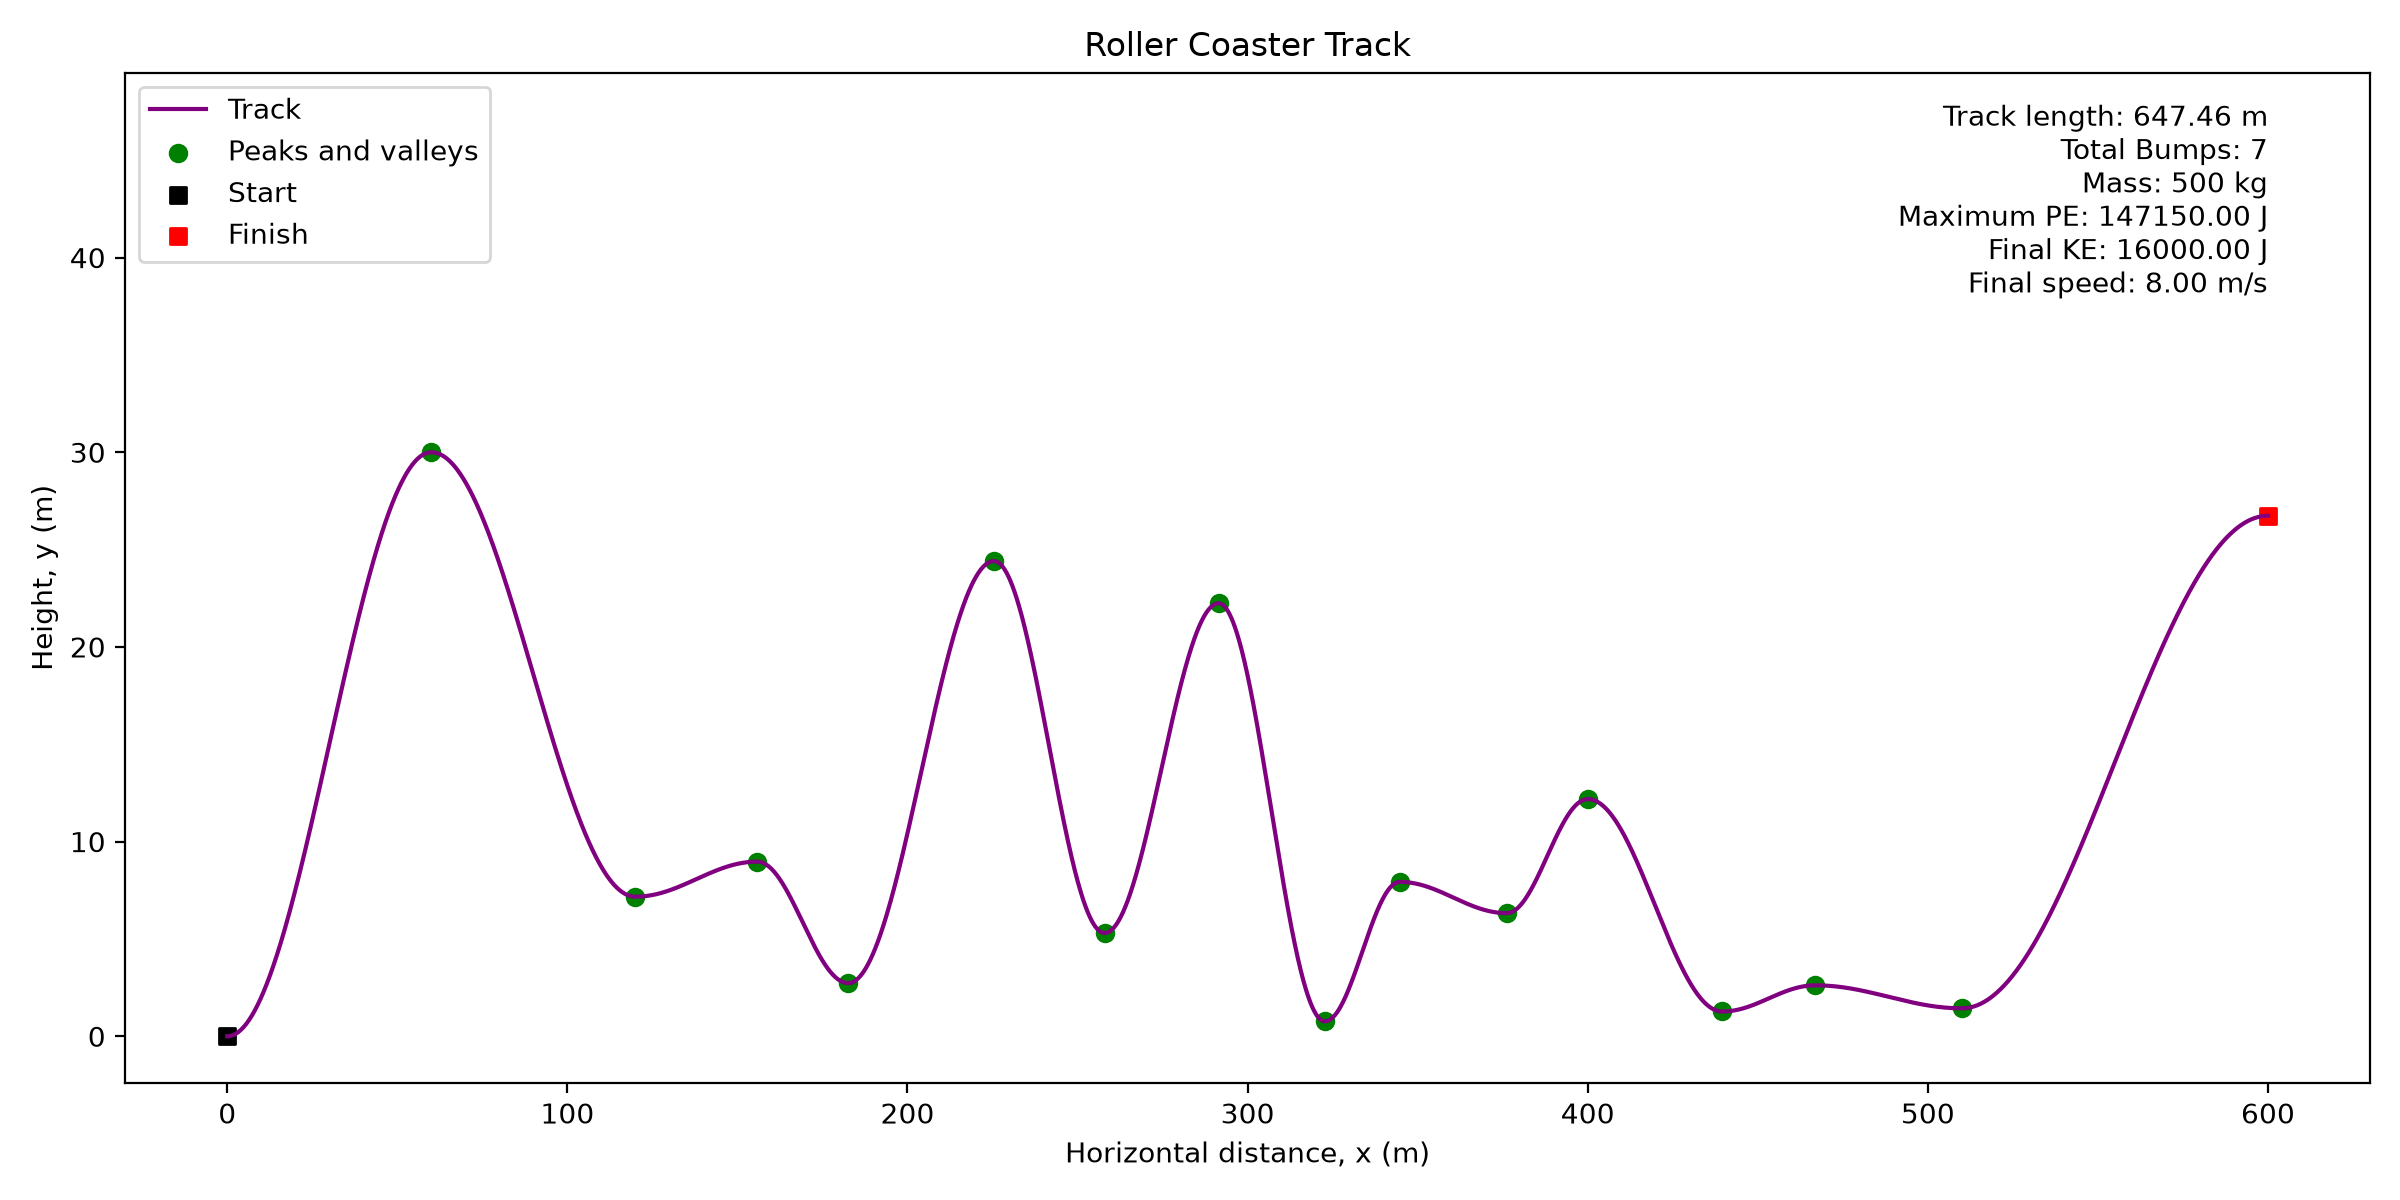
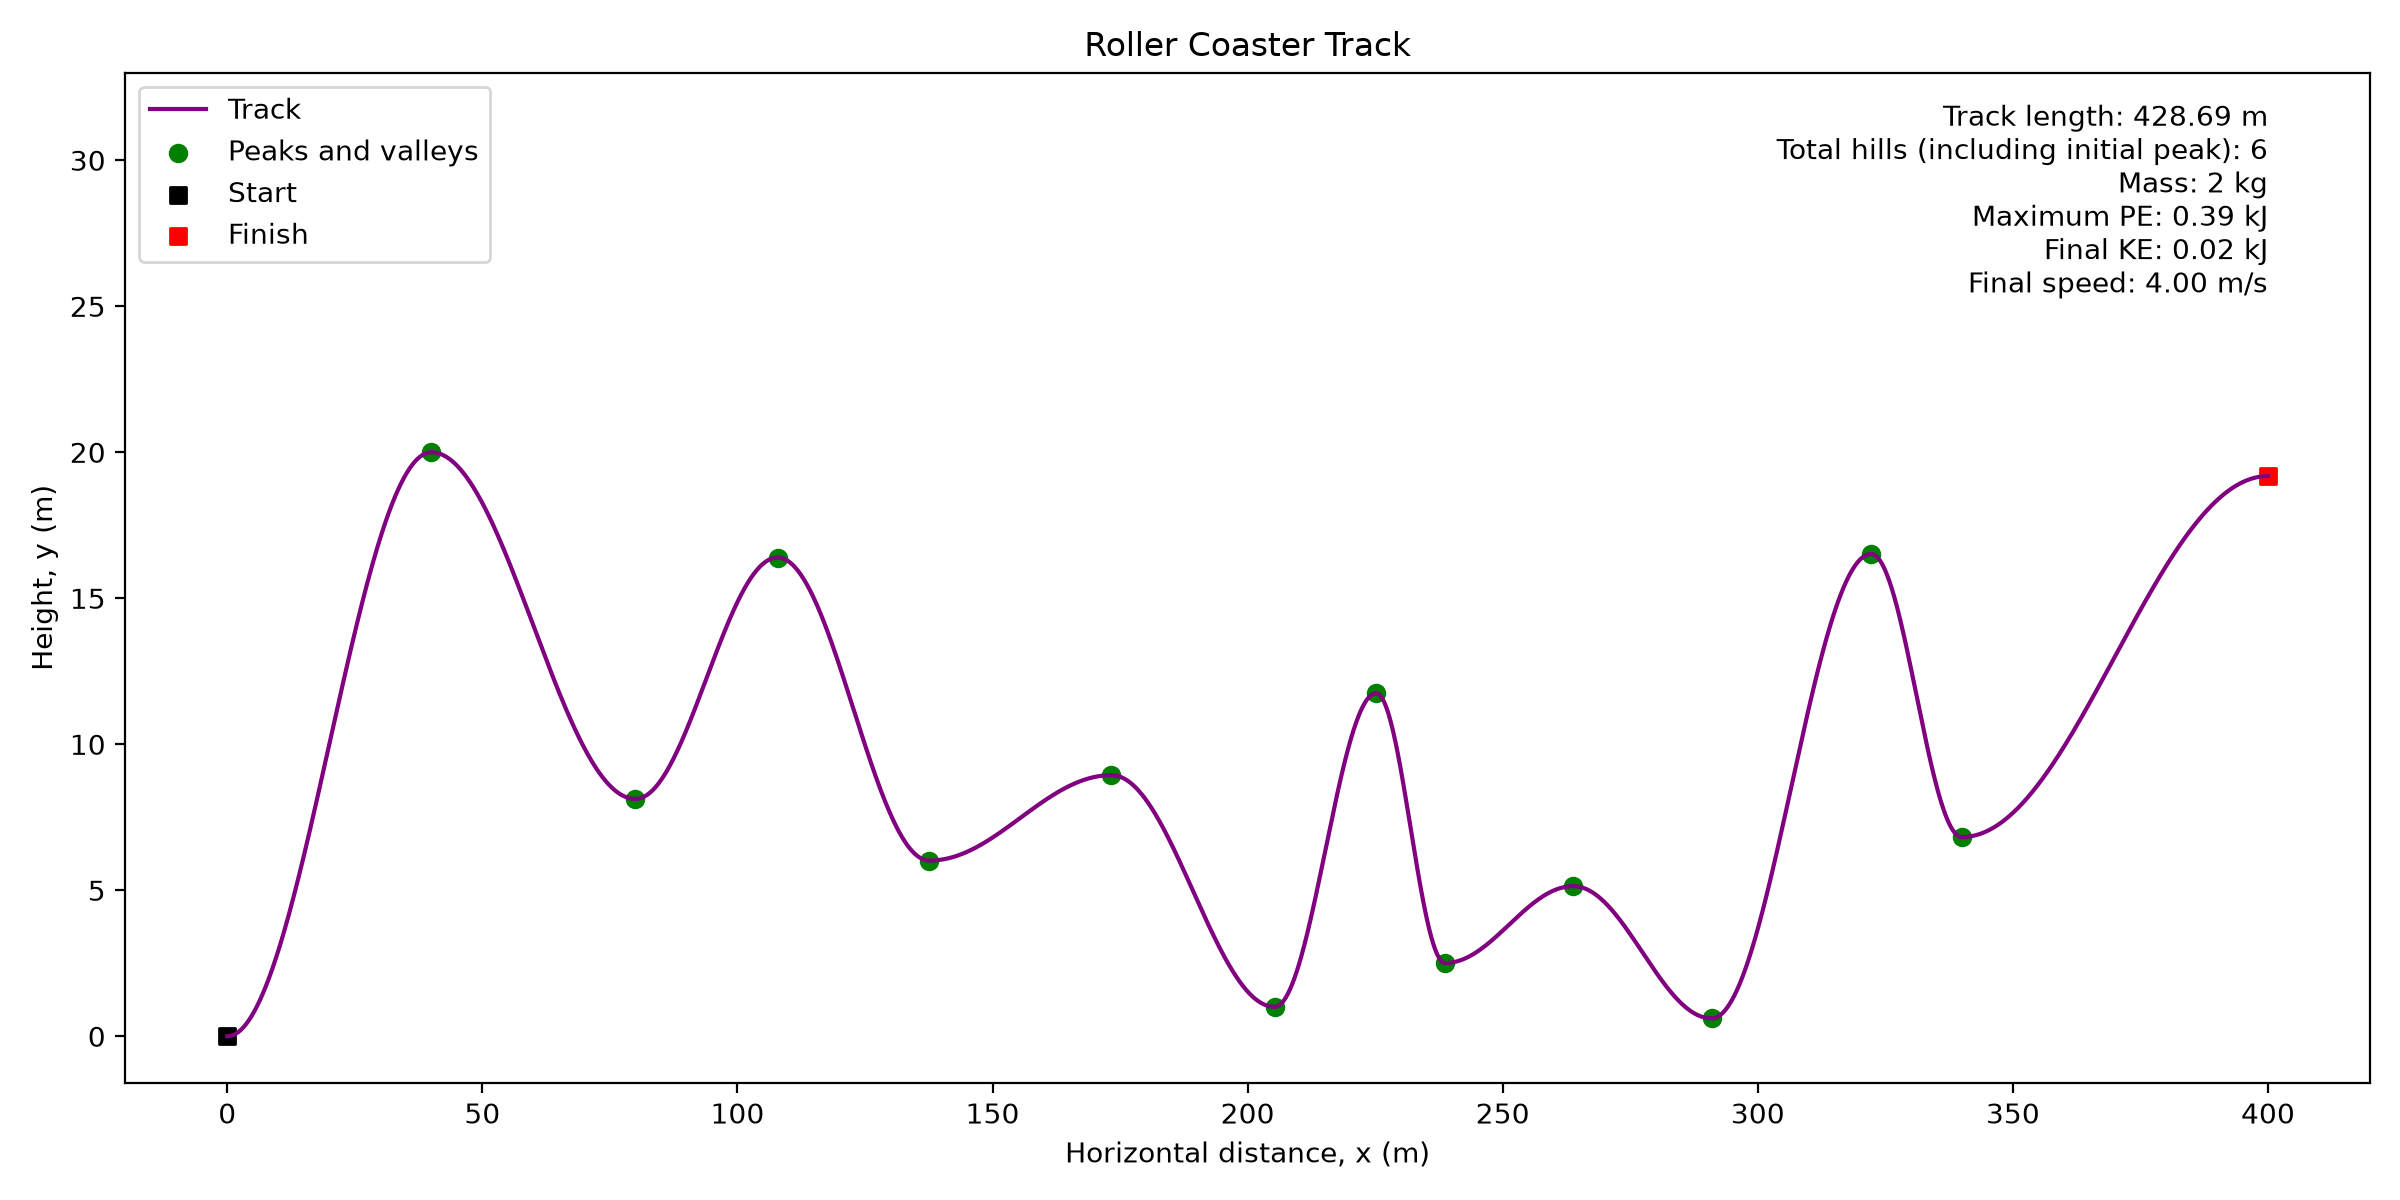
Add files via upload

diff --git a/final.py b/final.py
@@ -11,49 +11,72 @@ def section(x, x1, x2, y1, y2):
     return y1 + (y2 - y1)/2 * (1 - np.cos(np.pi * (x - x1)/(x2 - x1)))
 
 #inputs and track length check
+print("Welcome to the Rollercoaster generator!!")
 while True:
     try:
-        distance = float(input("Horizontal distance (m): "))
-        height = float(input("Initial peak height (m): "))
-        hills = int(input("Number of additional hills (at least 6): "))
-        mass = float(input("Mass (kg): "))
-        speed = float(input("Desired final speed (m/s, between 0 and 10): "))
+        distance = float(input("\nHorizontal start-to-finish distance (m; greater than 0; curved track must be 300-1200 m): "))
     except ValueError:
-        print("Enter numbers only, with a whole number for the hill count.")
+        print("Distance must be a finite number greater than 0. Restarting all inputs.")
+        continue
+    if not np.isfinite(distance) or distance <= 0 or distance >= 1200:
+        print("Distance must be a finite number greater than 0 and less than 1200. Restarting all inputs.")
         continue
 
-    if not np.all(np.isfinite([distance, height, mass, speed])):
-        print("Enter finite numbers.")
+    try:
+        height = float(input("Initial peak height above ground (m; greater than 0): "))
+    except ValueError:
+        print("Height must be a finite number greater than 0. Restarting all inputs.")
         continue
-    if distance <= 0 or height <= 0 or mass <= 0:
-        print("Distance, height, and mass must be positive.")
+    if not np.isfinite(height) or height <= 0:
+        print("Height must be a finite number greater than 0. Restarting all inputs.")
         continue
-    if hills < 6:
-        print("There must be at least six additional hills.")
+
+    try:
+        hills = int(input("Total hills, including the initial peak (whole number; at least 5): "))
+    except ValueError:
+        print("Total hills must be a whole number of at least 5. Restarting all inputs.")
         continue
-    if speed <= 0 or speed >= 10:
-        print("Final speed must be greater than 0 and less than 10 m/s.")
+    if hills < 5:
+        print("Total hills must be a whole number of at least 5. Restarting all inputs.")
+        continue
+
+    try:
+        mass = float(input("Car mass (kg; greater than 0): "))
+    except ValueError:
+        print("Mass must be a finite number greater than 0. Restarting all inputs.")
+        continue
+    if not np.isfinite(mass) or mass <= 0:
+        print("Mass must be a finite number greater than 0. Restarting all inputs.")
+        continue
+
+    try:
+        speed = float(input("Desired speed at the finish (m/s; greater than 0 and less than 10): "))
+    except ValueError:
+        print("Final speed must be a finite number greater than 0 and less than 10 m/s. Restarting all inputs.")
+        continue
+    if not np.isfinite(speed) or speed <= 0 or speed >= 10:
+        print("Final speed must be a finite number greater than 0 and less than 10 m/s. Restarting all inputs.")
         continue
 
     final_height = height - speed**2/(2*g)
     if final_height < 0:
-        print("Final height would be below ground. Increase height or decrease speed.")
+        print("Final height would be below ground. Increase height or decrease speed. Restarting all inputs.")
         continue
 
     #random widths for the hills between 20% and 85% of the distance
     widths = []
-    for n in range(2*hills):
+    for n in range(2*(hills - 1)):
         widths.append(np.random.uniform(0.5, 1.5))
     total_width = sum(widths)
 
     x_points = [0, 0.1 * distance, 0.2 * distance]
-    for n in range(2*hills):
+    for n in range(2*(hills - 1)):
         x_points.append(x_points[-1] + 0.65 * distance * widths[n]/total_width)
     x_points.append(distance)
 
     #random peak heights, all below the initial peak
     y_points = [0, height, 0]
-    for n in range(hills):
+    for n in range(hills - 1):
         hill_height = np.random.uniform(0, height)
         while hill_height <= 0 or hill_height >= height:
             hill_height = np.random.uniform(0, height)
@@ -119,7 +142,7 @@ final_ke = mass * g * (height - final_height)
 final_speed = np.sqrt(2 * final_ke/mass)
 
 print(f"\nActual track length: {length:.2f} m")
-print(f"Total Bumps: {hills + 1}")
+print(f"Total hills (including initial peak): {hills}")
 print(f"Maximum potential energy: {max_pe:.2f} J")
 print(f"Final kinetic energy: {final_ke:.2f} J")
 print(f"Calculated final speed: {final_speed:.4f} m/s")
@@ -137,8 +160,8 @@ plt.ylim(-0.08 * height, 1.65 * height)
 plt.legend(loc="upper left")
 
 #results above the track
-results = (f"Track length: {length:.2f} m\nTotal Bumps: {hills + 1}\nMass: {mass:g} kg\n"
-           f"Maximum PE: {max_pe:.2f} J\nFinal KE: {final_ke:.2f} J\n"
+results = (f"Track length: {length:.2f} m\nTotal hills (including initial peak): {hills}\nMass: {mass:g} kg\n"
+           f"Maximum PE: {max_pe/1000:.2f} kJ\nFinal KE: {final_ke/1000:.2f} kJ\n"
            f"Final speed: {final_speed:.2f} m/s")
 plt.text(distance, 1.6 * height, results, ha="right", va="top")
 plt.tight_layout()

diff --git a/README.md b/README.md
@@ -15,19 +15,19 @@ Enter all five values when prompted. The program displays a static plot and save
 
 | Input | Units | Valid values | Example |
 |---|---|---|---|
-| Horizontal distance | m | Positive | 600 |
+| Horizontal distance | m | Greater than 0 and less than 1200 | 600 |
 | Initial peak height | m | Positive | 30 |
-| Number of additional hills | count | Integer, at least 6 | 6 |
+| Total hills, including the initial peak | count | Integer, at least 5 | 5 |
 | Mass | kg | Positive | 500 |
 | Desired final speed | m/s | Strictly between 0 and 10 | 8 |
 
-The final height must be nonnegative. Actual track length must be between 300 and 1200 m. Invalid inputs or track lengths produce an explanation and restart all five prompts. Each new track gets new random hill heights, so its length also varies.
+All numeric inputs must be finite. The final height must be nonnegative. Actual track length must be between 300 and 1200 m. Each input is checked immediately; an invalid input produces an explanation and restarts all five prompts. An invalid track length also restarts all five prompts. Each new track gets new random hill heights, so its length also varies.
 
-Horizontal distance is the start-to-finish distance along the x-axis. Actual track length follows the curves and is longer.
+Horizontal distance is the start-to-finish distance along the x-axis and must be less than 1200 m. Actual track length follows the curves and must separately be between 300 and 1200 m, inclusive.
 
 ## Track construction
 
-The initial peak is at 10% of the horizontal distance, followed by a valley at 20%. Additional peaks and valleys alternate through 85%, ending with a valley. Their horizontal section widths are random weights between 0.5 and 1.5, scaled to fill that portion of the track. The remaining distance is the final ascent. Each additional peak is sampled uniformly between zero and the initial peak height, excluding endpoints. Each valley is then sampled between zero and the lower of its two neighbors, excluding endpoints. This keeps every valley below both neighboring peaks while varying its elevation. If the finish is at ground level, the last valley must also be zero. No fixed random seed is used.
+The initial peak is at 10% of the horizontal distance, followed by a valley at 20%. The entered total includes this peak, so the track has one fewer additional peaks. Additional peaks and valleys alternate through 85%, ending with a valley. Their horizontal section widths are random weights between 0.5 and 1.5, scaled to fill that portion of the track. The remaining distance is the final ascent; the finish is not counted as a hill. Each additional peak is sampled uniformly between zero and the initial peak height, excluding endpoints. Each valley is then sampled between zero and the lower of its two neighbors, excluding endpoints. This keeps every valley below both neighboring peaks while varying its elevation. If the finish is at ground level, the last valley must also be zero. No fixed random seed is used.
 
 For endpoints (x0, y0) and (x1, y1), each piece uses:
 
@@ -56,7 +56,7 @@ Mass changes potential and kinetic energy. It cancels out of the speed equation 
 
 ## Example and verification
 
-For inputs 600, 30, 6, 500, and 8:
+For inputs 600, 30, 5, 500, and 8:
 
 - Maximum potential energy: 147150.00 J.
 - Final kinetic energy: 16000.00 J.
@@ -64,7 +64,7 @@ For inputs 600, 30, 6, 500, and 8:
 - Final height: approximately 26.7380 m.
 - Track length, hill heights, valley heights, and section widths vary each run.
 
-Verification covers random hill bounds, joins and zero slopes, energy conservation after release, mass scaling, invalid inputs, rejection of short/long tracks, and length convergence when sampling resolution doubles. The saved example plot is generated from these five inputs.
+Track geometry and length vary because each run generates a new random track.
 
 
 ## Code structure
